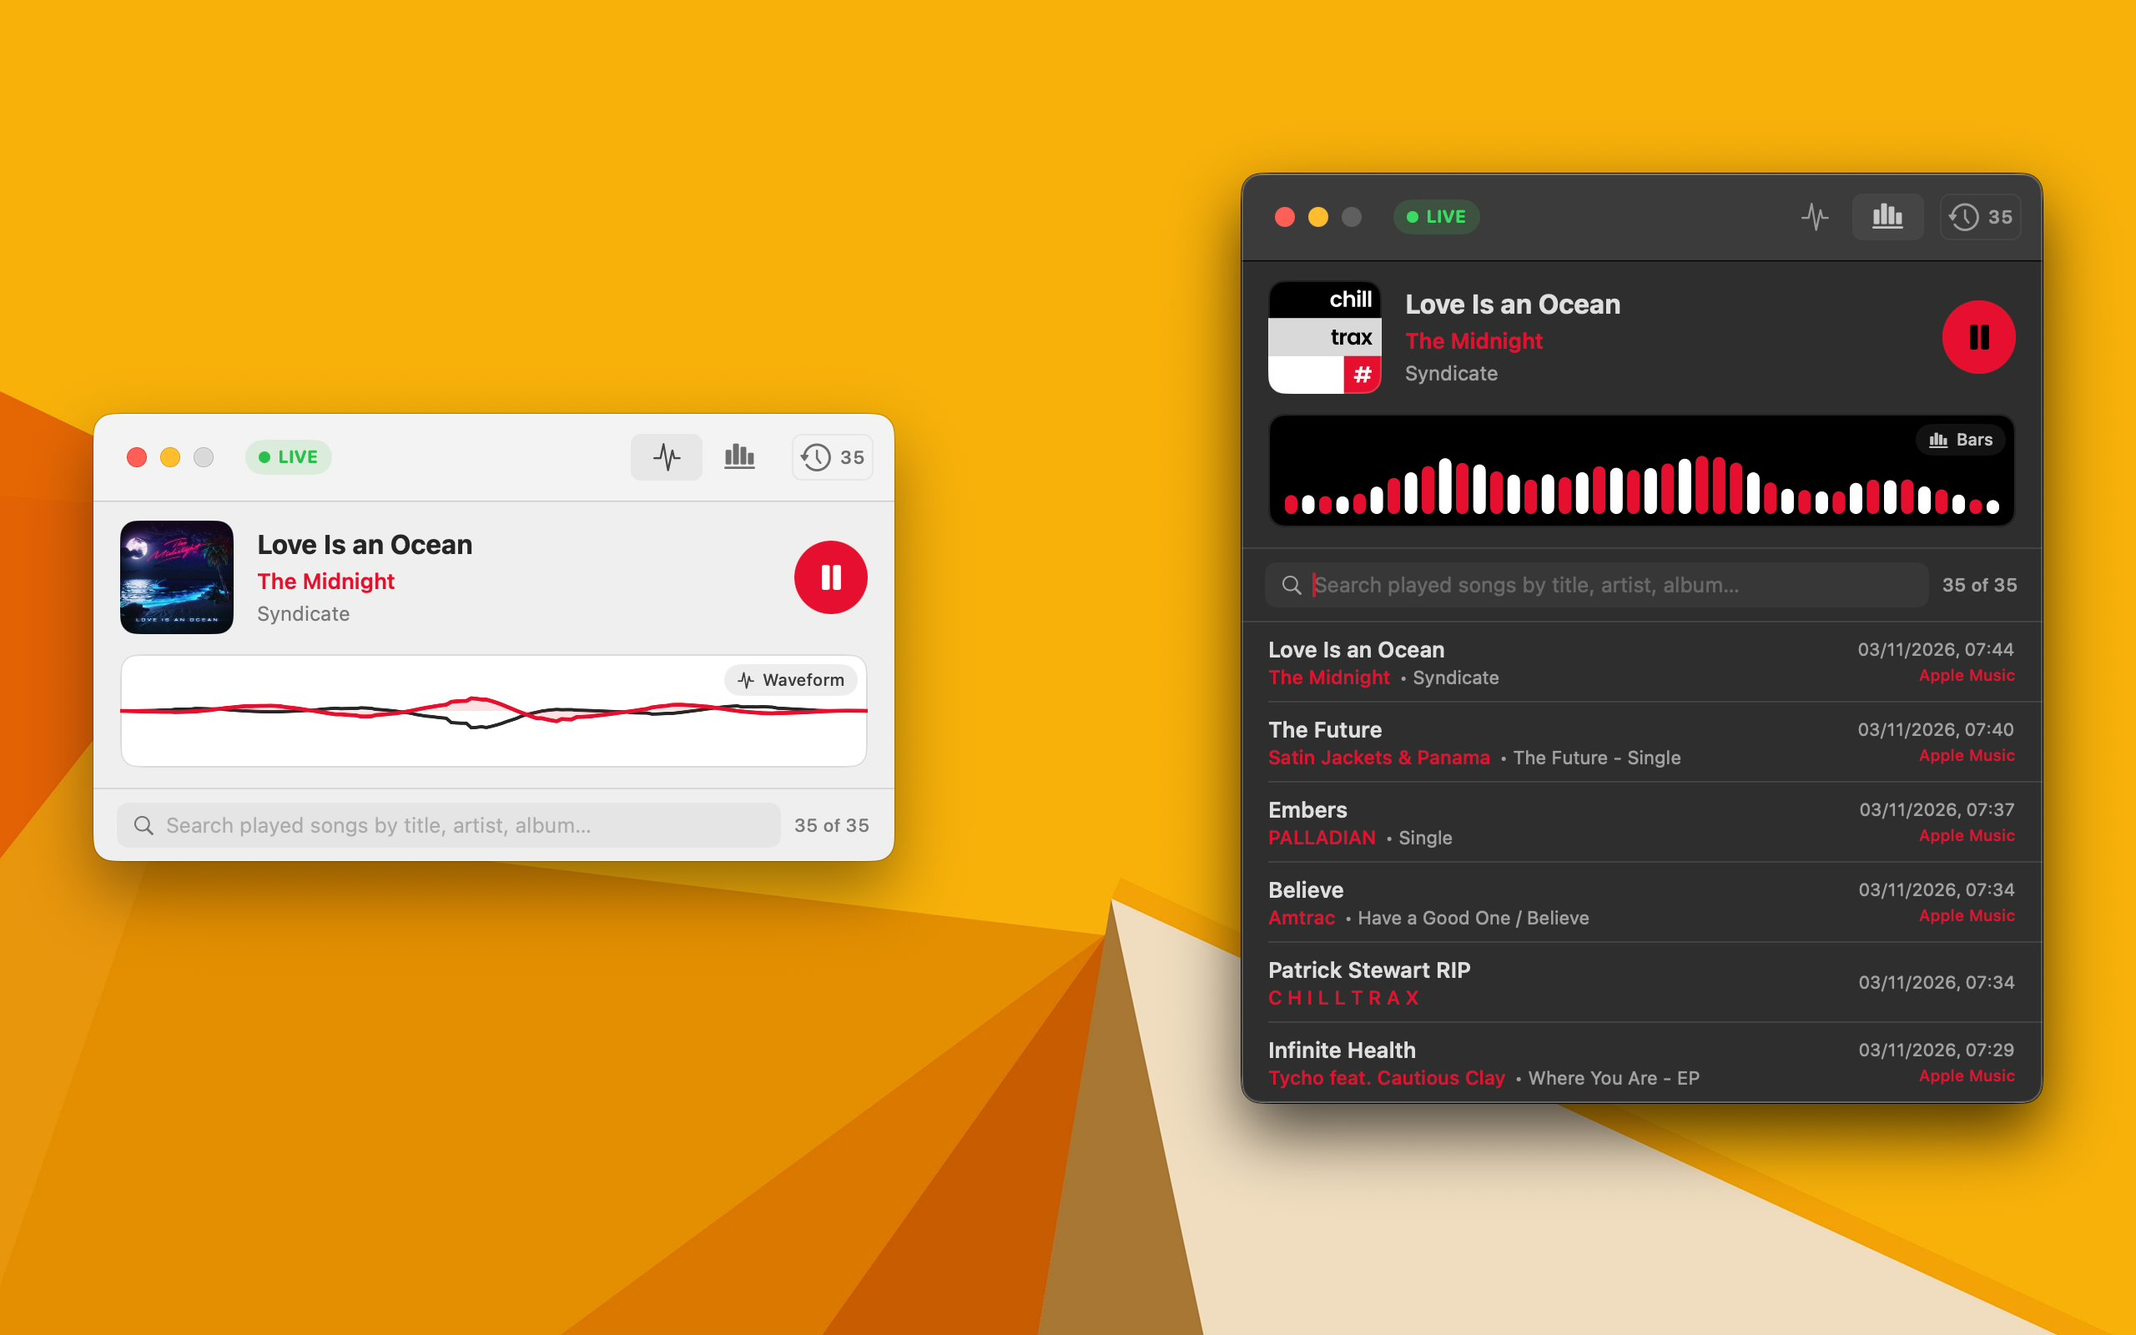
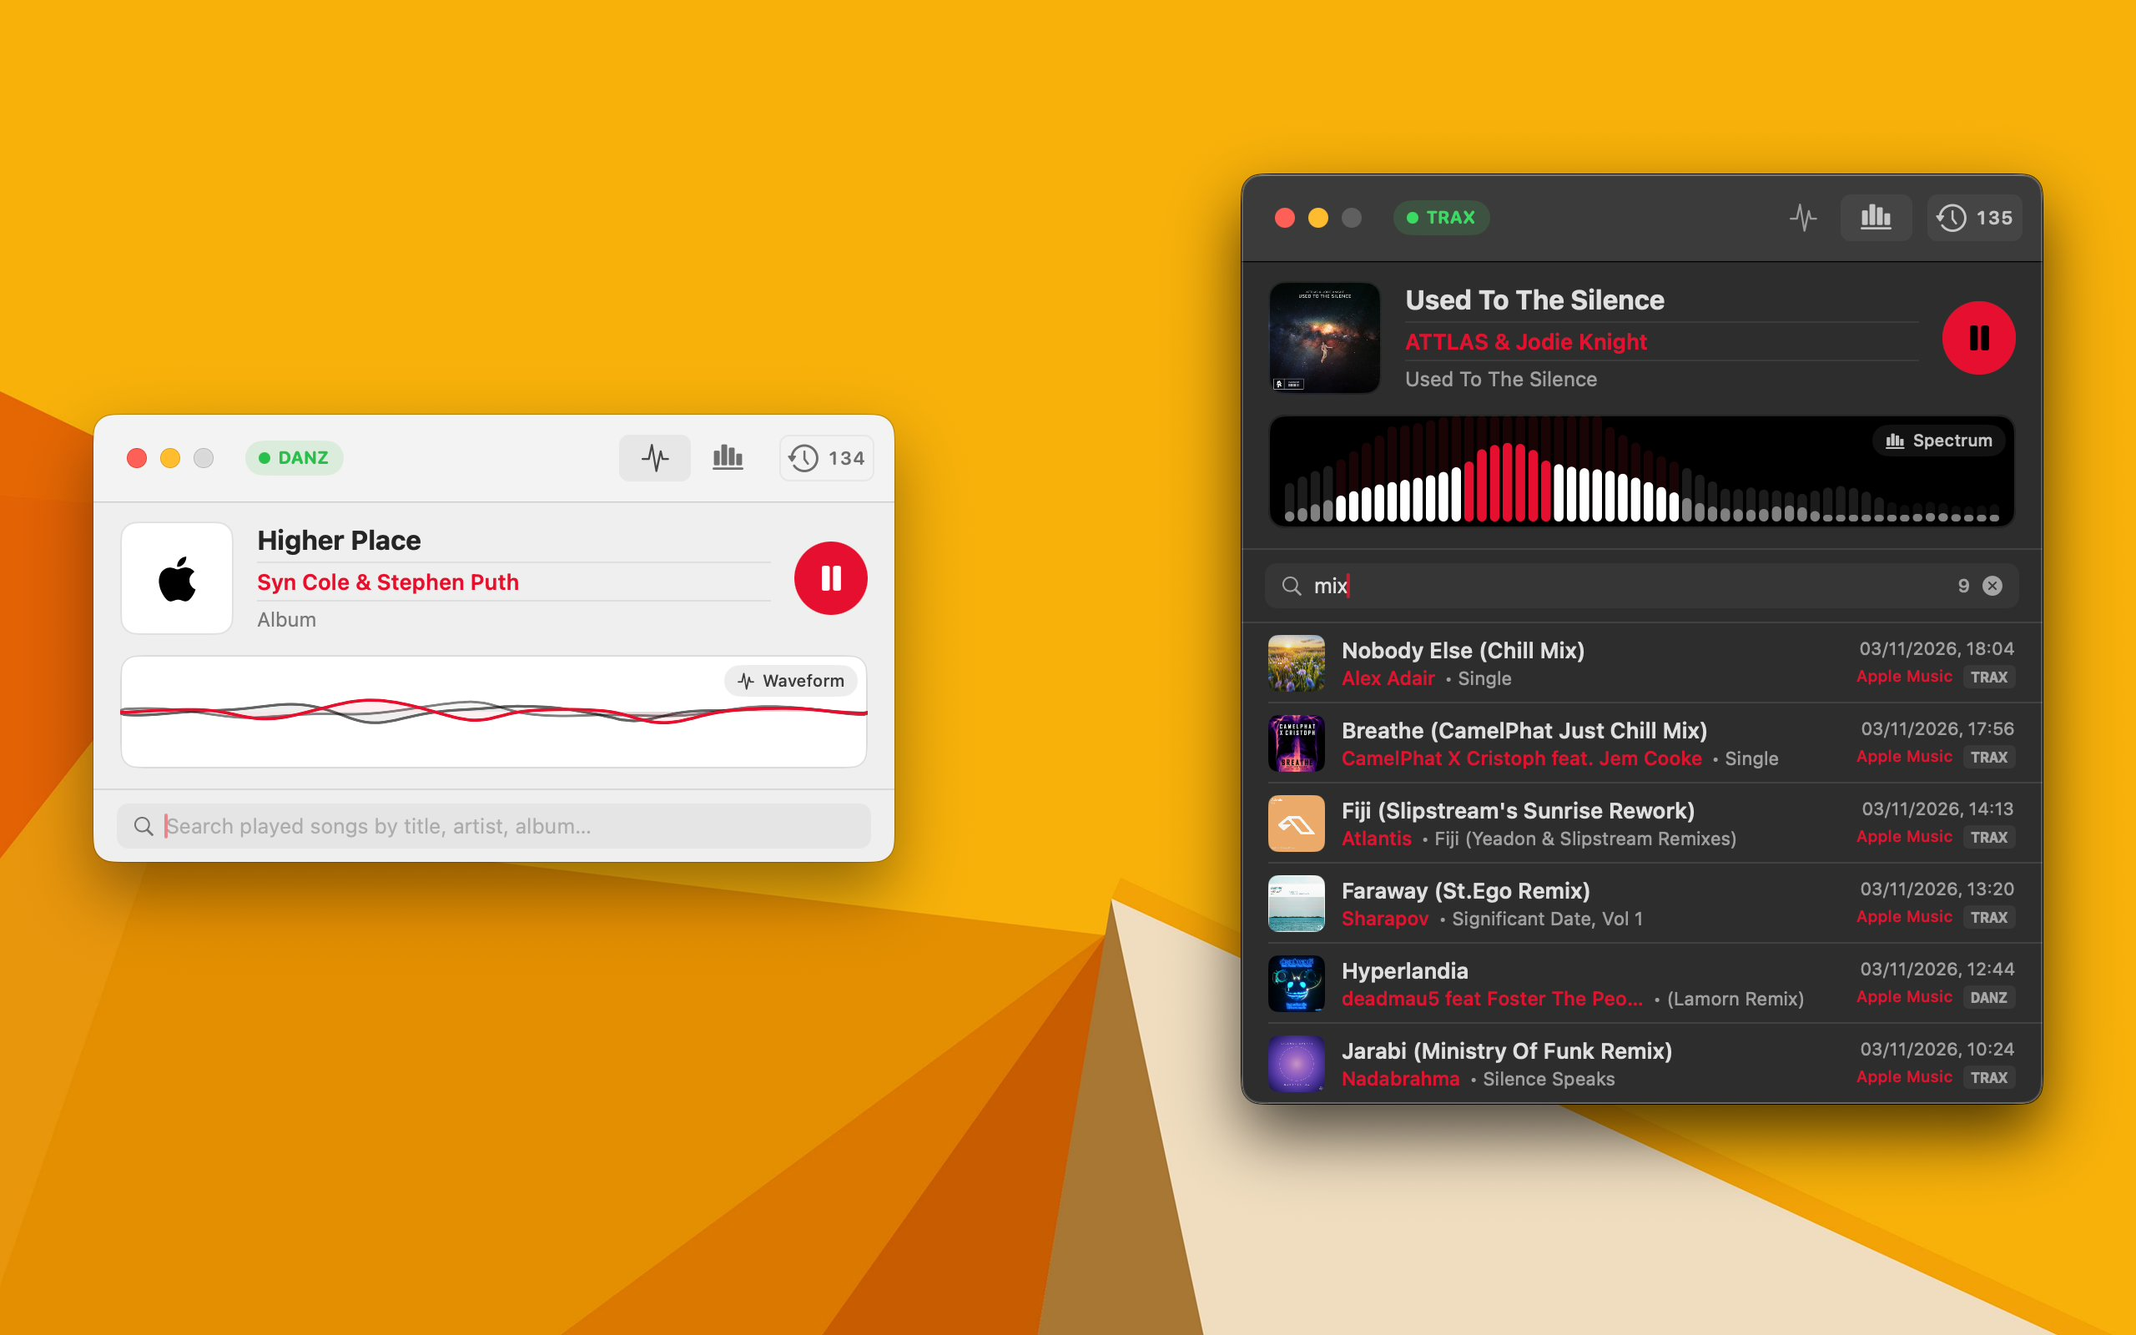
notification only shows station

diff --git a/Tests/ChilltraxTests/ChilltraxTests.swift b/Tests/ChilltraxTests/ChilltraxTests.swift
@@ -278,32 +278,76 @@ final class ChilltraxTests: XCTestCase {
 
         XCTAssertEqual(state.historyEntries.count, 2)
         XCTAssertEqual(state.historyEntries[0].stationBadgeLabel, "DANZ")
+        XCTAssertEqual(state.historyEntries[0].clipboardText, "Massive Attack - Teardrop")
         XCTAssertEqual(state.historyEntries[1].stationBadgeLabel, "TRAX")
+        XCTAssertEqual(state.historyEntries[1].clipboardText, "Air - La Femme d'Argent")
+        XCTAssertEqual(state.historyBadgeLabel(for: state.historyEntries[0]), "DANZ")
+        XCTAssertEqual(state.historyBadgeLabel(for: state.historyEntries[1]), "TRAX")
+
+        // Copying first history item changes its label to COPY while others remain TRAX/DANZ
+        XCTAssertEqual(state.copyHistoryEntryToClipboard(state.historyEntries[0]), "Massive Attack - Teardrop")
+        XCTAssertEqual(state.historyBadgeLabel(for: state.historyEntries[0]), "COPY")
+        XCTAssertEqual(state.historyBadgeLabel(for: state.historyEntries[1]), "TRAX")
+
+        // Copying second history item switches COPY to it and reverts the previous item back to DANZ
+        XCTAssertEqual(state.copyHistoryEntryToClipboard(state.historyEntries[1]), "Air - La Femme d'Argent")
+        XCTAssertEqual(state.historyBadgeLabel(for: state.historyEntries[0]), "DANZ")
+        XCTAssertEqual(state.historyBadgeLabel(for: state.historyEntries[1]), "COPY")
         XCTAssertTrue(state.historyEntries[0].matches(searchQuery: "DANZ"))
         XCTAssertTrue(state.historyEntries[1].matches(searchQuery: "TRAX"))
         XCTAssertFalse(state.isHistoryExpanded)
+        XCTAssertFalse(state.isHistoryButtonHighlighted)
 
-        // Searching with matching results automatically expands the player with history results
+        // Searching with matching results automatically expands the player with history results and highlights the toolbar button
         state.historySearchQuery = "moon"
         XCTAssertEqual(state.filteredHistoryEntries.count, 1)
         XCTAssertEqual(state.filteredHistoryEntries.first?.artist, "Air")
         XCTAssertTrue(state.isHistoryExpanded)
+        XCTAssertTrue(state.isHistoryButtonHighlighted)
 
-        // Searching with no matching results collapses the player back to compact
+        // Even if history is manually collapsed while a matching search result exists, the button remains highlighted
+        state.toggleHistoryExpanded()
+        XCTAssertFalse(state.isHistoryExpanded)
+        XCTAssertTrue(state.isHistoryButtonHighlighted)
+
+        // Searching with no matching results collapses the player back to compact and removes highlight
         state.historySearchQuery = "nonexistent-artist-xyz"
         XCTAssertTrue(state.filteredHistoryEntries.isEmpty)
         XCTAssertFalse(state.isHistoryExpanded)
+        XCTAssertFalse(state.isHistoryButtonHighlighted)
 
         // Matching query expands again, and clearing search query collapses back to compact
         state.historySearchQuery = "teardrop"
         XCTAssertEqual(state.filteredHistoryEntries.count, 1)
         XCTAssertTrue(state.isHistoryExpanded)
+        XCTAssertTrue(state.isHistoryButtonHighlighted)
         state.historySearchQuery = ""
         XCTAssertFalse(state.isHistoryExpanded)
+        XCTAssertFalse(state.isHistoryButtonHighlighted)
+
+        // Opening history directly also highlights the toolbar button
+        state.toggleHistoryExpanded()
+        XCTAssertTrue(state.isHistoryExpanded)
+        XCTAssertTrue(state.isHistoryButtonHighlighted)
+        state.toggleHistoryExpanded()
+        XCTAssertFalse(state.isHistoryExpanded)
+        XCTAssertFalse(state.isHistoryButtonHighlighted)
 
         // Disabling album cover setting clears current song cover URL
         state.fetchAlbumCoverFromChilltrax = false
         XCTAssertNil(state.currentSong.coverURL)
+
+        let chilltraxNotification = SongNotificationManager.makeNotificationContent(
+            song: SongMetadata(artist: "Air", title: "La Femme d'Argent", albumOrMix: "Moon Safari"),
+            station: .chilltrax
+        )
+        XCTAssertEqual(chilltraxNotification.body, "Now playing on Chilltrax")
+
+        let radioDanzNotification = SongNotificationManager.makeNotificationContent(
+            song: SongMetadata(artist: "Massive Attack", title: "Teardrop", albumOrMix: "Mezzanine"),
+            station: .radioDanz
+        )
+        XCTAssertEqual(radioDanzNotification.body, "Now playing on Radio Danz")
     }
 
     func testAppIconVectorRenderingFromSVG() {

diff --git a/Sources/Chilltrax/Views/HistoryListView.swift b/Sources/Chilltrax/Views/HistoryListView.swift
@@ -36,10 +36,14 @@ public struct HistoryListView: View {
                         ForEach(Array(displayed.enumerated()), id: \.element.id) { index, entry in
                             HistoryRowView(
                                 entry: entry,
+                                badgeLabel: appState.historyBadgeLabel(for: entry),
                                 showCover: appState.fetchAlbumCoverFromChilltrax,
                                 coverCache: appState.coverCache,
                                 formattedDate: Self.timeFormatter.string(from: entry.playedAt),
-                                showBottomDivider: index < displayed.count - 1 || appState.hasMoreHistoryEntries
+                                showBottomDivider: index < displayed.count - 1 || appState.hasMoreHistoryEntries,
+                                onCopySongInfo: {
+                                    appState.copyHistoryEntryToClipboard(entry)
+                                }
                             )
                             .frame(height: ChilltraxTheme.historyRowHeight)
                             .onAppear {
@@ -56,10 +60,12 @@ public struct HistoryListView: View {
 
 private struct HistoryRowView: View {
     let entry: SongHistoryEntry
+    let badgeLabel: String
     let showCover: Bool
     let coverCache: AlbumCoverCache
     let formattedDate: String
     let showBottomDivider: Bool
+    let onCopySongInfo: () -> Void
 
     var body: some View {
         HStack(spacing: 10) {
@@ -118,15 +124,21 @@ private struct HistoryRowView: View {
                         }
                     }
 
-                    Text(entry.stationBadgeLabel)
-                        .font(.system(size: 9, weight: .bold, design: .monospaced))
-                        .foregroundStyle(.secondary)
-                        .padding(.horizontal, 4.5)
-                        .padding(.vertical, 1.5)
-                        .background(
-                            RoundedRectangle(cornerRadius: 3.5, style: .continuous)
-                                .fill(Color.primary.opacity(0.07))
-                        )
+                    Button(action: {
+                        onCopySongInfo()
+                    }) {
+                        Text(badgeLabel)
+                            .font(.system(size: 9, weight: .bold, design: .monospaced))
+                            .foregroundStyle(.secondary)
+                            .padding(.horizontal, 4.5)
+                            .padding(.vertical, 1.5)
+                            .background(
+                                RoundedRectangle(cornerRadius: 3.5, style: .continuous)
+                                    .fill(Color.primary.opacity(0.07))
+                            )
+                    }
+                    .buttonStyle(.plain)
+                    .help("Copy \"\(entry.clipboardText)\" to Clipboard")
                 }
             }
         }
@@ -141,8 +153,7 @@ private struct HistoryRowView: View {
         .contentShape(Rectangle())
         .contextMenu {
             Button("Copy Song Name") {
-                NSPasteboard.general.clearContents()
-                NSPasteboard.general.setString(entry.displayName, forType: .string)
+                onCopySongInfo()
             }
             if let buyURL = entry.buyURL {
                 Link("Open in Apple Music", destination: buyURL)

diff --git a/Sources/Chilltrax/Views/CompactPlayerView.swift b/Sources/Chilltrax/Views/CompactPlayerView.swift
@@ -18,17 +18,21 @@ public struct CompactPlayerView: View {
                     albumArtworkView
 
                     // Song Metadata + Controls
-                    VStack(alignment: .leading, spacing: 4) {
+                    VStack(alignment: .leading, spacing: 3) {
                         Text(displayedSongTitle)
                             .font(.system(size: 16, weight: .bold))
                             .foregroundStyle(.primary)
                             .lineLimit(1)
                             .help("\(displayedSongArtist) — \(displayedSongTitle)")
 
+                        songInfoSeparator
+
                         Text(displayedSongArtist)
                             .font(.system(size: 13, weight: .semibold))
                             .foregroundStyle(ChilltraxTheme.accentRed)
                             .lineLimit(1)
+
+                        songInfoSeparator
 
                         Text(displayedSongAlbum)
                             .font(.system(size: 12))
@@ -43,8 +47,7 @@ public struct CompactPlayerView: View {
                                 .lineLimit(1)
                         }
                     }
-
-                    Spacer(minLength: 4)
+                    .frame(maxWidth: .infinity, alignment: .leading)
 
                     // Play / Pause Primary Button (#E60E30 background color, no glow)
                     Button(action: {
@@ -142,17 +145,19 @@ public struct CompactPlayerView: View {
                 .pickerStyle(.segmented)
                 .help("Visualizer Mode (Waveform or Spectrum)")
 
-                Button(action: {
-                    appState.toggleHistoryExpanded()
-                }) {
+                Toggle(isOn: Binding(
+                    get: { appState.isHistoryButtonHighlighted },
+                    set: { _ in appState.toggleHistoryExpanded() }
+                )) {
                     HStack(spacing: 4) {
                         Image(systemName: "clock.arrow.circlepath")
-                            .symbolVariant(appState.isHistoryExpanded ? .fill : .none)
                         Text("\(appState.historyEntries.count)")
                             .font(.system(size: 11, weight: .semibold, design: .rounded))
                             .monospacedDigit()
                     }
                 }
+                .toggleStyle(.button)
+                .tint(nil)
                 .help(appState.isHistoryExpanded ? "Collapse Song History" : "Expand Searchable Song History")
             }
         }
@@ -181,6 +186,12 @@ public struct CompactPlayerView: View {
             return "Album"
         }
         return appState.currentSong.albumOrMix
+    }
+
+    private var songInfoSeparator: some View {
+        Rectangle()
+            .fill(Color.primary.opacity(0.08))
+            .frame(height: 1)
     }
 
     private var appleMusicURL: URL? {

diff --git a/Sources/Chilltrax/State/AppState.swift b/Sources/Chilltrax/State/AppState.swift
@@ -1,5 +1,6 @@
 import Foundation
 import SwiftUI
+import AppKit
 import Combine
 
 @MainActor
@@ -113,6 +114,7 @@ public final class AppState: ObservableObject {
     }
     @Published public private(set) var visibleHistoryLimit: Int = AppState.historyPageSize
     @Published public private(set) var historyEntries: [SongHistoryEntry] = []
+    @Published public private(set) var copiedHistoryEntryID: UUID? = nil
     @Published public private(set) var isDiscoveringBroadcasts: Bool = false
     @Published public private(set) var discoveryStatusMessage: String?
 
@@ -145,6 +147,25 @@ public final class AppState: ObservableObject {
 
     public var hasMoreHistoryEntries: Bool {
         filteredHistoryEntries.count > visibleHistoryLimit
+    }
+
+    public var isHistoryButtonHighlighted: Bool {
+        let hasSearchResults = !historySearchQuery.trimmingCharacters(in: .whitespacesAndNewlines).isEmpty
+            && !filteredHistoryEntries.isEmpty
+        return isHistoryExpanded || hasSearchResults
+    }
+
+    @discardableResult
+    public func copyHistoryEntryToClipboard(_ entry: SongHistoryEntry) -> String {
+        copiedHistoryEntryID = entry.id
+        let text = entry.clipboardText
+        NSPasteboard.general.clearContents()
+        NSPasteboard.general.setString(text, forType: .string)
+        return text
+    }
+
+    public func historyBadgeLabel(for entry: SongHistoryEntry) -> String {
+        copiedHistoryEntryID == entry.id ? "COPY" : entry.stationBadgeLabel
     }
 
     public func loadMoreHistoryIfNeeded(currentEntry: SongHistoryEntry? = nil) {
@@ -697,7 +718,7 @@ public final class AppState: ObservableObject {
         if shouldNotify {
             SongNotificationManager.shared.sendSongChangeNotification(
                 song: merged,
-                stationName: selectedStream.name
+                stationName: selectedStation.title
             )
         }
 
@@ -715,6 +736,7 @@ public final class AppState: ObservableObject {
         pendingHistoryTask?.cancel()
         pendingHistoryTask = nil
         historyEntries = []
+        copiedHistoryEntryID = nil
         historyStore.save([])
         coverCache.clearAll()
     }

diff --git a/Sources/Chilltrax/Audio/RadioPlayer.swift b/Sources/Chilltrax/Audio/RadioPlayer.swift
@@ -498,10 +498,11 @@ public final class SongNotificationManager {
         UNUserNotificationCenter.current().requestAuthorization(options: [.alert, .sound]) { _, _ in }
     }
 
-    public func sendSongChangeNotification(song: SongMetadata, stationName: String) {
-        guard canUseUserNotifications, song.isMeaningfulTrack else { return }
-        requestAuthorizationIfNeeded()
+    public static func makeNotificationContent(song: SongMetadata, station: RadioStation) -> UNMutableNotificationContent {
+        makeNotificationContent(song: song, stationName: station.title)
+    }
 
+    public static func makeNotificationContent(song: SongMetadata, stationName: String) -> UNMutableNotificationContent {
         let content = UNMutableNotificationContent()
         content.title = song.title.isEmpty ? stationName : song.title
         if !song.artist.isEmpty && !song.albumOrMix.isEmpty {
@@ -512,6 +513,14 @@ public final class SongNotificationManager {
             content.subtitle = stationName
         }
         content.body = "Now playing on \(stationName)"
+        return content
+    }
+
+    public func sendSongChangeNotification(song: SongMetadata, stationName: String) {
+        guard canUseUserNotifications, song.isMeaningfulTrack else { return }
+        requestAuthorizationIfNeeded()
+
+        let content = Self.makeNotificationContent(song: song, stationName: stationName)
 
         let request = UNNotificationRequest(
             identifier: "chilltrax.song.\(UUID().uuidString)",

diff --git a/Sources/Chilltrax/Views/SettingsView.swift b/Sources/Chilltrax/Views/SettingsView.swift
@@ -67,7 +67,7 @@ public struct SettingsView: View {
                         .foregroundStyle(.secondary)
                     Text(appState.currentStationAPIEndpoints.songInfoURLString)
                         .font(.system(.caption, design: .monospaced))
-                        .foregroundStyle(.secondary)
+                        .foregroundStyle(.primary)
                         .lineLimit(1)
                         .truncationMode(.middle)
                         .textSelection(.enabled)
@@ -126,7 +126,7 @@ public struct SettingsView: View {
 
             Section("Metadata, Artwork & Notifications") {
                 Toggle(
-                    "Fetch current playing song album cover from chilltrax.com",
+                    "Fetch current playing song album cover",
                     isOn: $appState.fetchAlbumCoverFromChilltrax
                 )
 

diff --git a/Sources/Chilltrax/Models/Models.swift b/Sources/Chilltrax/Models/Models.swift
@@ -451,6 +451,12 @@ public struct SongHistoryEntry: Identifiable, Codable, Equatable, Sendable {
         return "\(artist) — \(title)"
     }
 
+    public var clipboardText: String {
+        if artist.isEmpty { return title }
+        if title.isEmpty { return artist }
+        return "\(artist) - \(title)"
+    }
+
     public var normalizedKey: String {
         "\(artist.lowercased().trimmingCharacters(in: .whitespacesAndNewlines))|\(title.lowercased().trimmingCharacters(in: .whitespacesAndNewlines))"
     }

diff --git a/Sources/Chilltrax/ChilltraxApp.swift b/Sources/Chilltrax/ChilltraxApp.swift
@@ -38,6 +38,11 @@ struct ChilltraxApp: App {
 
                 Divider()
 
+                Button("Toggle Station (Chilltrax / Radio Danz)") {
+                    appState.toggleStation()
+                }
+                .keyboardShortcut("s", modifiers: [.command, .shift])
+
                 Button("Toggle Visualizer (Waveform / Spectrum)") {
                     appState.toggleVisualizerMode()
                 }
